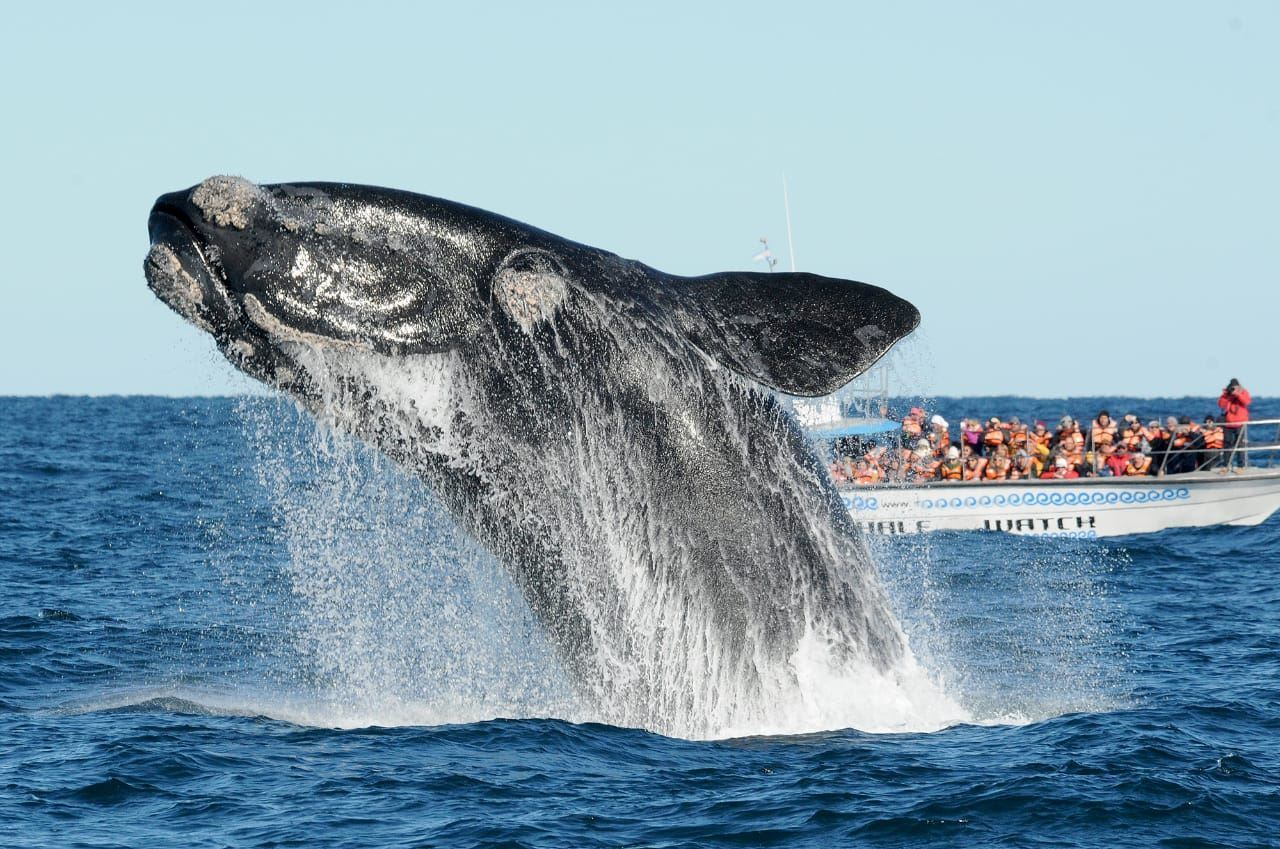
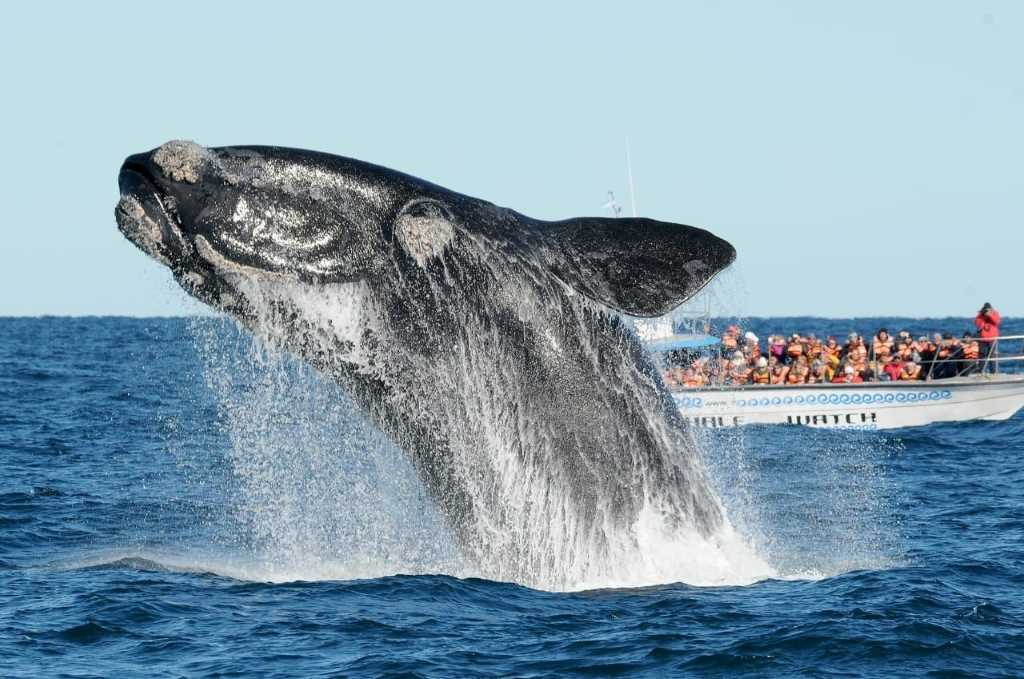
segui mejorando el seo, agregue keywords alts y optimice imagenes

diff --git a/pages/productos.html b/pages/productos.html
@@ -8,12 +8,12 @@
     <link href="https://cdn.jsdelivr.net/npm/bootstrap@5.3.1/dist/css/bootstrap.min.css" rel="stylesheet"
         integrity="sha384-4bw+/aepP/YC94hEpVNVgiZdgIC5+VKNBQNGCHeKRQN+PtmoHDEXuppvnDJzQIu9" crossorigin="anonymous">
     <link rel="stylesheet" href="../css/estilo.css">
-    <title>Mi Pagina</title>
+    <title>Kuro Travels - Nuestros destinos</title>
 </head>
 
 <body>
     <header>
-        <h1>Mi Pagina</h1>
+        <h1>Kuro Travels</h1>
         <nav class="navbar navbar-expand-lg bg-body-success">
             <div class="container-fluid">
                 <a class="navbar-brand" href="../index.html">Inicio</a>
@@ -65,49 +65,49 @@
             </div>
             <div class="carousel-inner">
                 <div class="carousel-item active">
-                    <img src="../img/bariloche.jpg" class="d-block w-100" alt="...">
+                    <img src="../img/bariloche.jpg" class="d-block w-100" alt="Bariloche">
                     <div class="carousel-caption d-none d-md-block">
                         <h5>Bariloche</h5>
                     </div>
                 </div>
                 <div class="carousel-item">
-                    <img src="../img/buenos aires.jpeg" class="d-block w-100" alt="...">
+                    <img src="../img/buenos aires.jpg" class="d-block w-100" alt="Buenos Aires">
                     <div class="carousel-caption d-none d-md-block">
                         <h5>Buenos Aires</h5>
                     </div>
                 </div>
                 <div class="carousel-item">
-                    <img src="../img/cataratas.jpg" class="d-block w-100" alt="...">
+                    <img src="../img/cataratas.jpg" class="d-block w-100" alt="Misiones">
                     <div class="carousel-caption d-none d-md-block">
                         <h5>Misiones</h5>
                     </div>
                 </div>
                 <div class="carousel-item">
-                    <img src="../img/cordoba.jpg" class="d-block w-100" alt="...">
+                    <img src="../img/cordoba.jpg" class="d-block w-100" alt="Cordoba">
                     <div class="carousel-caption d-none d-md-block">
                         <h5>Cordoba</h5>
                     </div>
                 </div>
                 <div class="carousel-item">
-                    <img src="../img/jujuy.jpg" class="d-block w-100" alt="...">
+                    <img src="../img/jujuy.jpg" class="d-block w-100" alt="Jujuy">
                     <div class="carousel-caption d-none d-md-block">
                         <h5>Jujuy</h5>
                     </div>
                 </div>
                 <div class="carousel-item">
-                    <img src="../img/mendoza.jpg" class="d-block w-100" alt="...">
+                    <img src="../img/mendoza.jpg" class="d-block w-100" alt="Mendoza">
                     <div class="carousel-caption d-none d-md-block">
                         <h5>Mendoza</h5>
                     </div>
                 </div>
                 <div class="carousel-item">
-                    <img src="../img/peninsula.jpg" class="d-block w-100" alt="...">
+                    <img src="../img/peninsula.jpg" class="d-block w-100" alt="Chubut">
                     <div class="carousel-caption d-none d-md-block">
                         <h5>Chubut</h5>
                     </div>
                 </div>
                 <div class="carousel-item">
-                    <img src="../img/santa cruz.jpeg" class="d-block w-100" alt="...">
+                    <img src="../img/santa cruz.jpg" class="d-block w-100" alt="Santa Cruz">
                     <div class="carousel-caption d-none d-md-block">
                         <h5>Santa Cruz</h5>
                     </div>
@@ -129,9 +129,9 @@
 
     <footer>
         <section class="redes">
-            <img src="../img/face logo.png" alt="facebook logo" class="logoredes">
-            <img src="../img/twitter logo.png" alt="twitter logo" class="logoredes">
-            <img src="../img/insta logo.png" alt="instagram logo" class="logoredes">
+            <a target="_blank" href="https://www.facebook.com"><img src="../img/face logo.png" alt="facebook logo" class="logoredes"></a>
+            <a target="_blank" href="https://www.twitter.com"><img src="../img/twitter logo.png" alt="twitter logo" class="logoredes"></a>
+            <a target="_blank" href="https://www.instagram.com"><img src="../img/insta logo.png" alt="instagram logo" class="logoredes"></a>
         </section>
 
         <section>

diff --git a/index.html b/index.html
@@ -5,15 +5,16 @@
     <meta charset="UTF-8">
     <meta name="viewport" content="width=device-width, initial-scale=1.0">
     <meta name="description" content="Viaja y disfruta con Kuro Travels. Reserva tu paquete ahora hasta 12 cuotas">
+    <meta name="keywords" content="Viajar, viajes, vuelos, aerolineas, flybondi, despegar, jetsmart, hoteles, hotel, argentina, cuotas, estadia, excursion, bariloche, buenos aires, cataratas, peninsula de valdes, mendoza, vinos, trecking, excursiones, montañas, escalar, puerto madero, obelisco, san telmo, dolar, dolares, lugares en argentina, lugares para conocer en argentina">
     <link href="https://cdn.jsdelivr.net/npm/bootstrap@5.3.1/dist/css/bootstrap.min.css" rel="stylesheet"
         integrity="sha384-4bw+/aepP/YC94hEpVNVgiZdgIC5+VKNBQNGCHeKRQN+PtmoHDEXuppvnDJzQIu9" crossorigin="anonymous">
     <link rel="stylesheet" href="./css/estilo.css">
-    <title>Mi Pagina</title>
+    <title>Kuro Travels - El placer de viajar</title>
 </head>
 
 <body>
     <header>
-        <h1>Mi Pagina</h1>
+        <h1>Kuro Travels</h1>
         <nav class="navbar navbar-expand-lg bg-body-success">
             <div class="container-fluid">
                 <a class="navbar-brand" href="index.html">Inicio</a>
@@ -45,25 +46,25 @@
     </h2>
     <main class="container">
         <div class="card m-1 text-center col h-50">
-            <img src="./img/santa cruz.jpeg" class="card-img-top" alt="...">
+            <img src="./img/santa cruz.jpg" class="card-img-top" alt="Santa Cruz">
             <div class="card-body">
                 <p class="card-text">Santa Cruz</p>
             </div>
         </div>
         <div class="card m-1 text-center col h-50">
-            <img src="./img/bariloche.jpg" class="card-img-top" alt="...">
+            <img src="./img/bariloche.jpg" class="card-img-top" alt="Bariloche">
             <div class="card-body">
                 <p class="card-text">Bariloche</p>
             </div>
         </div>
         <div class="card m-1 text-center col h-50">
-            <img src="./img/buenos aires.jpeg" class="card-img-top" alt="...">
+            <img src="./img/buenos aires.jpg" class="card-img-top" alt="Buenos Aires">
             <div class="card-body">
                 <p class="card-text">Buenos Aires</p>
             </div>
         </div>
         <div class="card m-1 text-center col h-50">
-            <img src="./img/cataratas.jpg" class="card-img-top" alt="...">
+            <img src="./img/cataratas.jpg" class="card-img-top" alt="Cataratas">
             <div class="card-body">
                 <p class="card-text">Cataratas</p>
             </div>
@@ -73,9 +74,9 @@
 
     <footer class="footer">
         <section class="redes">
-            <img src="./img/face logo.png" alt="facebook logo" class="logoredes">
-            <img src="./img/twitter logo.png" alt="twitter logo" class="logoredes">
-            <img src="./img/insta logo.png" alt="instagram logo" class="logoredes">
+            <a target="_blank" href="https://www.facebook.com"><img src="./img/face logo.png" alt="facebook logo" class="logoredes"></a>
+            <a target="_blank" href="https://www.twitter.com"><img src="./img/twitter logo.png" alt="twitter logo" class="logoredes"></a>
+            <a target="_blank" href="https://www.instagram.com"><img src="./img/insta logo.png" alt="instagram logo" class="logoredes"></a>
         </section>
 
         <section>

diff --git a/pages/terminos.html b/pages/terminos.html
@@ -7,12 +7,12 @@
     <meta name="description" content="Preguntas Frecuentes">
     <link href="https://cdn.jsdelivr.net/npm/bootstrap@5.3.1/dist/css/bootstrap.min.css" rel="stylesheet" integrity="sha384-4bw+/aepP/YC94hEpVNVgiZdgIC5+VKNBQNGCHeKRQN+PtmoHDEXuppvnDJzQIu9" crossorigin="anonymous">
     <link rel="stylesheet" href="../css/estilo.css">
-    <title>Mi Pagina</title>
+    <title>Kuro Travels - FAQs</title>
 </head>
 
 <body>
     <header>
-        <h1>Mi Pagina</h1>
+        <h1>Kuro Travels</h1>
         <nav class="navbar navbar-expand-lg bg-body-success">
             <div class="container-fluid">
                 <a class="navbar-brand" href="../index.html">Inicio</a>
@@ -63,9 +63,9 @@
 
     <footer>
         <section class="redes">
-            <img src="../img/face logo.png" alt="facebook logo" class="logoredes">
-            <img src="../img/twitter logo.png" alt="twitter logo" class="logoredes">
-            <img src="../img/insta logo.png" alt="instagram logo" class="logoredes">
+            <a target="_blank" href="https://www.facebook.com"><img src="../img/face logo.png" alt="facebook logo" class="logoredes"></a>
+            <a target="_blank" href="https://www.twitter.com"><img src="../img/twitter logo.png" alt="twitter logo" class="logoredes"></a>
+            <a target="_blank" href="https://www.instagram.com"><img src="../img/insta logo.png" alt="instagram logo" class="logoredes"></a>
         </section>
 
         <section>

diff --git a/pages/contacto.html b/pages/contacto.html
@@ -8,12 +8,12 @@
     <link href="https://cdn.jsdelivr.net/npm/bootstrap@5.3.1/dist/css/bootstrap.min.css" rel="stylesheet"
         integrity="sha384-4bw+/aepP/YC94hEpVNVgiZdgIC5+VKNBQNGCHeKRQN+PtmoHDEXuppvnDJzQIu9" crossorigin="anonymous">
     <link rel="stylesheet" href="../css/estilo.css">
-    <title>Mi Pagina</title>
+    <title>Kuro Travels - Contacto</title>
 </head>
 
 <body>
     <header>
-        <h1>Mi Pagina</h1>
+        <h1>Kuro Travels</h1>
         <nav class="navbar navbar-expand-lg bg-body-success">
             <div class="container-fluid">
                 <a class="navbar-brand" href="../index.html">Inicio</a>
@@ -75,9 +75,9 @@
     
     <footer>
         <section class="redes">
-            <img src="../img/face logo.png" alt="facebook logo" class="logoredes">
-            <img src="../img/twitter logo.png" alt="twitter logo" class="logoredes">
-            <img src="../img/insta logo.png" alt="instagram logo" class="logoredes">
+            <a target="_blank" href="https://www.facebook.com"><img src="../img/face logo.png" alt="facebook logo" class="logoredes"></a>
+            <a target="_blank" href="https://www.twitter.com"><img src="../img/twitter logo.png" alt="twitter logo" class="logoredes"></a>
+            <a target="_blank" href="https://www.instagram.com"><img src="../img/insta logo.png" alt="instagram logo" class="logoredes"></a>
         </section>
 
         <section>

diff --git a/pages/nosotros.html b/pages/nosotros.html
@@ -8,12 +8,12 @@
     <link href="https://cdn.jsdelivr.net/npm/bootstrap@5.3.1/dist/css/bootstrap.min.css" rel="stylesheet"
         integrity="sha384-4bw+/aepP/YC94hEpVNVgiZdgIC5+VKNBQNGCHeKRQN+PtmoHDEXuppvnDJzQIu9" crossorigin="anonymous">
     <link rel="stylesheet" href="../css/estilo.css">
-    <title>Mi Pagina</title>
+    <title>Kuro Travels - Conocenos</title>
 </head>
 
 <body>
     <header>
-        <h1>Mi Pagina</h1>
+        <h1>Kuro Travels</h1>
         <nav class="navbar navbar-expand-lg bg-body-success">
             <div class="container-fluid">
                 <a class="navbar-brand" href="../index.html">Inicio</a>
@@ -60,9 +60,9 @@
 
     <footer>
         <section class="redes">
-            <img src="../img/face logo.png" alt="facebook logo" class="logoredes">
-            <img src="../img/twitter logo.png" alt="twitter logo" class="logoredes">
-            <img src="../img/insta logo.png" alt="instagram logo" class="logoredes">
+            <a target="_blank" href="https://www.facebook.com"><img src="../img/face logo.png" alt="facebook logo" class="logoredes"></a>
+            <a target="_blank" href="https://www.twitter.com"><img src="../img/twitter logo.png" alt="twitter logo" class="logoredes"></a>
+            <a target="_blank" href="https://www.instagram.com"><img src="../img/insta logo.png" alt="instagram logo" class="logoredes"></a>
         </section>
 
         <section>
